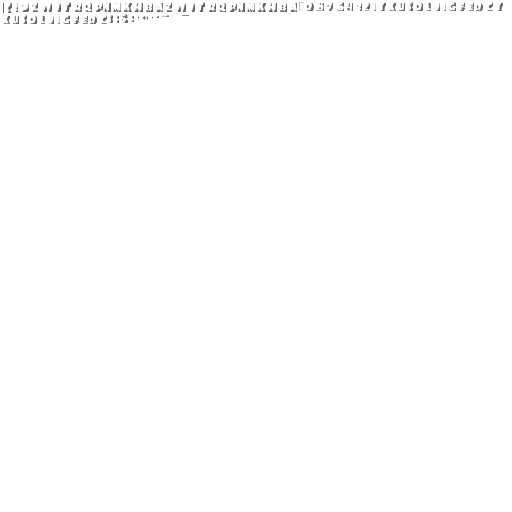
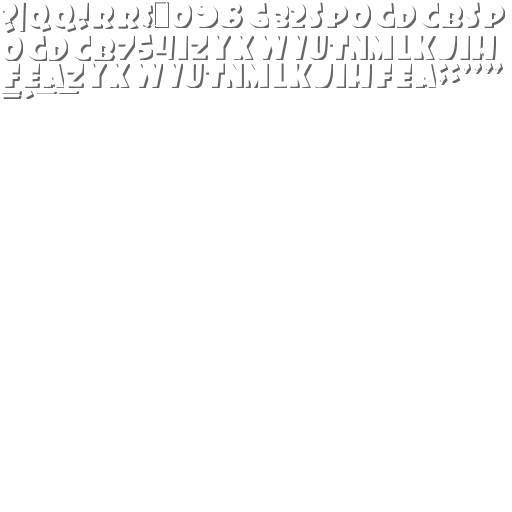
Update font

Changed region(s): [[0.0, 0.0, 1.0, 0.2188]]

diff --git a/core/src/com/ychstudio/gui/Hud.java b/core/src/com/ychstudio/gui/Hud.java
@@ -94,10 +94,12 @@ public class Hud implements Disposable {
         font = new BitmapFont(Gdx.files.internal("fonts/foo.fnt"));
         Label.LabelStyle labelStyle = new Label.LabelStyle(font, Color.WHITE);
         fpsLabel = new Label("FPS:", labelStyle);
-        fpsLabel.setPosition(16 * SCALE, 0 * SCALE);
+        fpsLabel.setFontScale(0.3f);
+        fpsLabel.setPosition(16 * SCALE, -0.8f * SCALE);
         
         playerLivesLabel = new Label("" + GameManager.playerLives, labelStyle);
-        playerLivesLabel.setPosition(17.5f * SCALE, 13.5f * SCALE);
+        playerLivesLabel.setFontScale(0.5f);
+        playerLivesLabel.setPosition(17.2f * SCALE, 12.8f * SCALE);
         
         Image bombermanImage = new Image(new TextureRegion(textureAtlas.findRegion("Items"), 16 * 5, 0, 16, 16));
         bombermanImage.setPosition(16f * SCALE, 13.5f * SCALE);
